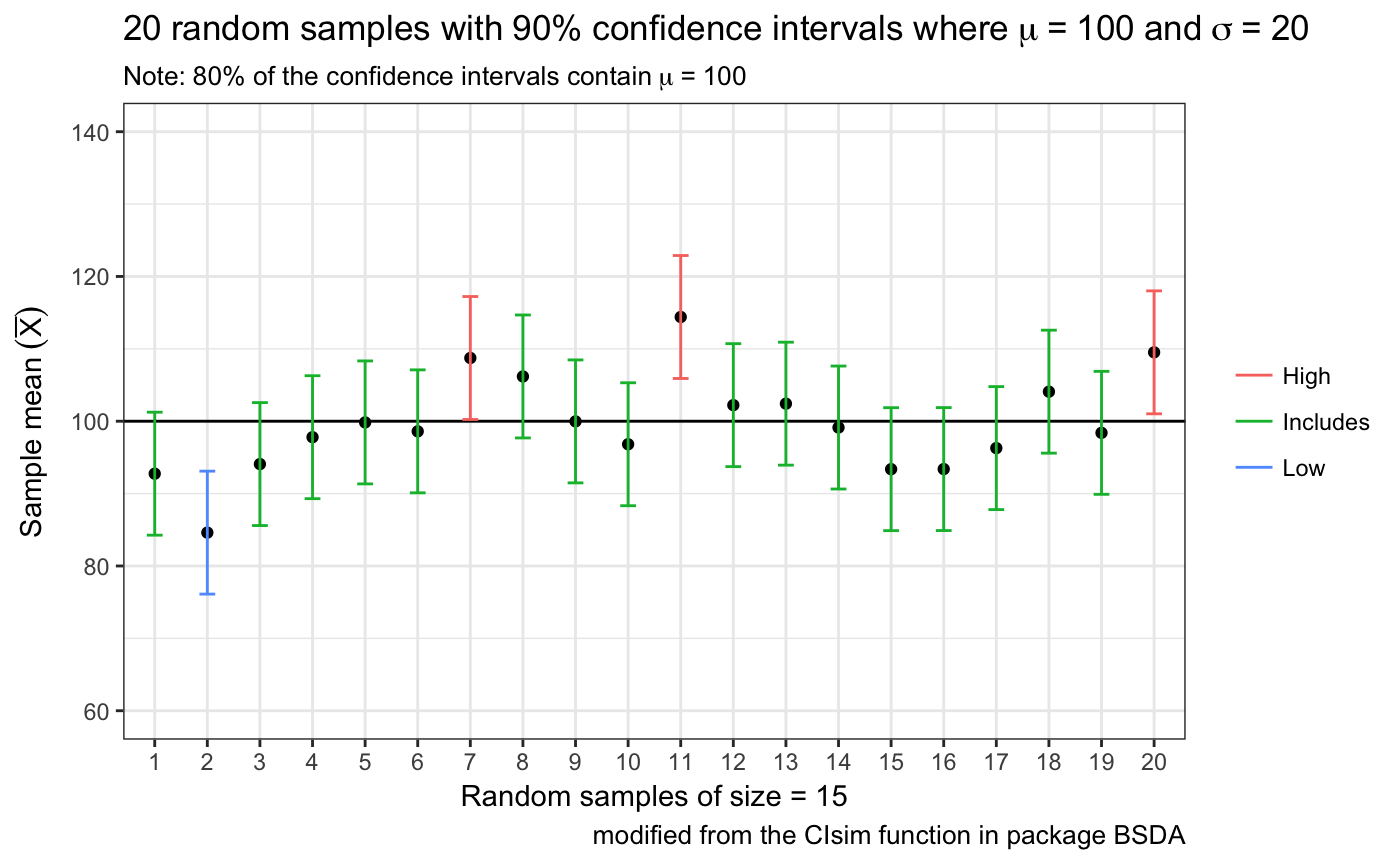
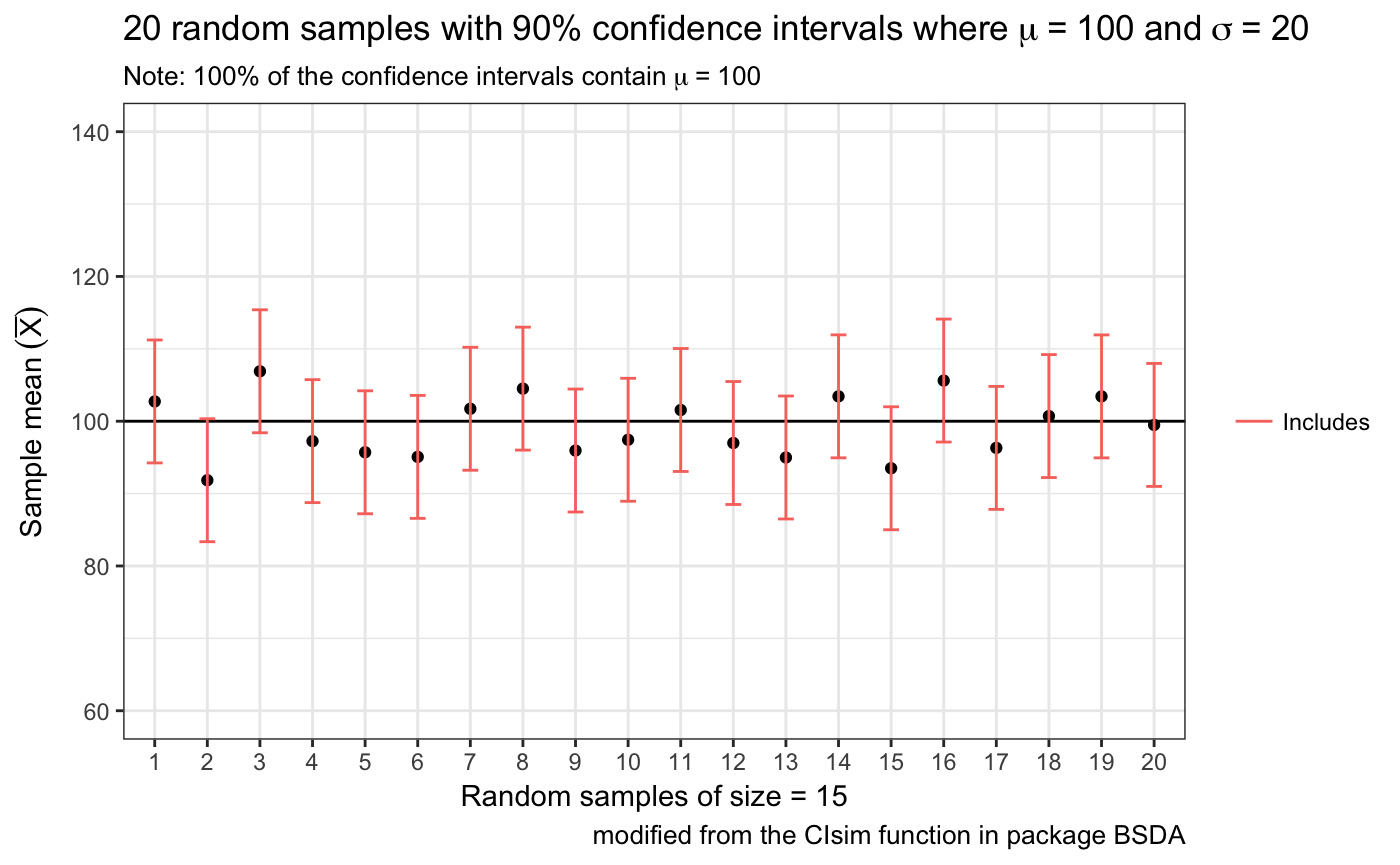
FIxed I think

diff --git a/docs/reference/OurConf.html b/docs/reference/OurConf.html
@@ -171,7 +171,7 @@ their confidence intervals</p>
     
 
     <h2 class="hasAnchor" id="examples"><a class="anchor" href="#examples"></a>Examples</h2>
-    <pre class="examples"><div class='input'><span class='fu'>OurConf</span>(<span class='kw'>samples</span> <span class='kw'>=</span> <span class='fl'>100</span>, <span class='kw'>n</span> <span class='kw'>=</span> <span class='fl'>30</span>, <span class='kw'>mu</span> <span class='kw'>=</span> <span class='fl'>0</span>, <span class='kw'>sigma</span> <span class='kw'>=</span> <span class='fl'>1</span>, <span class='kw'>conf.level</span> <span class='kw'>=</span> <span class='fl'>0.95</span>)</div><div class='img'><img src='OurConf-1.png' alt='' width='700' height='433' /></div><div class='output co'>#&gt; 98 % of the confidence intervals contain Mu = 0 . </div><div class='input'><span class='fu'>OurConf</span>(<span class='kw'>samples</span> <span class='kw'>=</span> <span class='fl'>2</span>, <span class='kw'>n</span> <span class='kw'>=</span><span class='fl'>5</span>)</div><div class='output co'>#&gt; <span class='error'>Error in grid.Call.graphics(C_setviewport, vp, TRUE): non-finite location and/or size for viewport</span></div><div class='img'><img src='OurConf-2.png' alt='' width='700' height='433' /></div><div class='input'><span class='fu'>OurConf</span>(<span class='kw'>samples</span> <span class='kw'>=</span> <span class='fl'>25</span>, <span class='kw'>n</span> <span class='kw'>=</span> <span class='fl'>25</span>, <span class='kw'>mu</span> <span class='kw'>=</span> <span class='fl'>100</span>, <span class='kw'>sigma</span> <span class='kw'>=</span> <span class='fl'>20</span>, <span class='kw'>conf.level</span> <span class='kw'>=</span> <span class='fl'>0.99</span>)</div><div class='output co'>#&gt; 100 % of the confidence intervals contain Mu = 100 . </div><div class='input'>
+    <pre class="examples"><div class='input'><span class='fu'>OurConf</span>(<span class='kw'>samples</span> <span class='kw'>=</span> <span class='fl'>100</span>, <span class='kw'>n</span> <span class='kw'>=</span> <span class='fl'>30</span>, <span class='kw'>mu</span> <span class='kw'>=</span> <span class='fl'>0</span>, <span class='kw'>sigma</span> <span class='kw'>=</span> <span class='fl'>1</span>, <span class='kw'>conf.level</span> <span class='kw'>=</span> <span class='fl'>0.95</span>)</div><div class='img'><img src='OurConf-1.png' alt='' width='700' height='433' /></div><div class='output co'>#&gt; 98 % of the confidence intervals contain Mu = 0 . </div><div class='input'><span class='fu'>OurConf</span>(<span class='kw'>samples</span> <span class='kw'>=</span> <span class='fl'>2</span>, <span class='kw'>n</span> <span class='kw'>=</span><span class='fl'>5</span>)</div><div class='img'><img src='OurConf-2.png' alt='' width='700' height='433' /></div><div class='output co'>#&gt; 100 % of the confidence intervals contain Mu = 0 . </div><div class='input'><span class='fu'>OurConf</span>(<span class='kw'>samples</span> <span class='kw'>=</span> <span class='fl'>25</span>, <span class='kw'>n</span> <span class='kw'>=</span> <span class='fl'>25</span>, <span class='kw'>mu</span> <span class='kw'>=</span> <span class='fl'>100</span>, <span class='kw'>sigma</span> <span class='kw'>=</span> <span class='fl'>20</span>, <span class='kw'>conf.level</span> <span class='kw'>=</span> <span class='fl'>0.99</span>)</div><div class='img'><img src='OurConf-3.png' alt='' width='700' height='433' /></div><div class='output co'>#&gt; 100 % of the confidence intervals contain Mu = 100 . </div><div class='input'>
 </div></pre>
   </div>
   <div class="col-md-3 hidden-xs hidden-sm" id="sidebar">

diff --git a/docs/reference/SeeDist.html b/docs/reference/SeeDist.html
@@ -181,8 +181,7 @@ The rest are ignored and the user is warned on the console.</p>
 
     <h2 class="hasAnchor" id="examples"><a class="anchor" href="#examples"></a>Examples</h2>
     <pre class="examples"><div class='input'><span class='fu'>SeeDist</span>(<span class='fu'>rnorm</span>(<span class='fl'>100</span>, <span class='kw'>mean</span><span class='kw'>=</span><span class='fl'>100</span>, <span class='kw'>sd</span><span class='kw'>=</span><span class='fl'>20</span>), <span class='kw'>numbins</span> <span class='kw'>=</span> <span class='fl'>15</span>, <span class='kw'>whatvar</span> <span class='kw'>=</span> <span class='st'>"A Random Sample"</span>)</div><div class='output co'>#&gt; <span class='warning'>Warning: There are 100 modal values displaying just the first 3</span></div><div class='img'><img src='SeeDist-1.png' alt='' width='700' height='433' /></div><div class='img'><img src='SeeDist-2.png' alt='' width='700' height='433' /></div><div class='img'><img src='SeeDist-3.png' alt='' width='700' height='433' /></div><div class='output co'>#&gt;    Min. 1st Qu.  Median    Mean 3rd Qu.    Max. 
-#&gt;   39.91   92.06  106.54  104.72  119.29  155.69 </div><div class='input'><span class='fu'>SeeDist</span>(<span class='no'>mtcars</span>$<span class='no'>hp</span>, <span class='kw'>whatvar</span> <span class='kw'>=</span> <span class='st'>"Horsepower"</span>)</div><div class='img'><img src='SeeDist-4.png' alt='' width='700' height='433' /></div><div class='img'><img src='SeeDist-5.png' alt='' width='700' height='433' /></div><div class='output co'>#&gt; <span class='error'>Error in grid.Call(C_textBounds, as.graphicsAnnot(x$label), x$x, x$y,     resolveHJust(x$just, x$hjust), resolveVJust(x$just, x$vjust),     x$rot, 0): polygon edge not found</span></div><div class='img'><img src='SeeDist-6.png' alt='' width='700' height='433' /></div><div class='input'><span class='fu'>SeeDist</span>(<span class='no'>iris</span>$<span class='no'>Sepal.Length</span>, <span class='kw'>whatvar</span> <span class='kw'>=</span> <span class='st'>"Sepal Length"</span>)</div><div class='output co'>#&gt;    Min. 1st Qu.  Median    Mean 3rd Qu.    Max. 
-#&gt;   4.300   5.100   5.800   5.843   6.400   7.900 </div><div class='input'>
+#&gt;   39.91   92.06  106.54  104.72  119.29  155.69 </div><div class='input'><span class='fu'>SeeDist</span>(<span class='no'>mtcars</span>$<span class='no'>hp</span>, <span class='kw'>whatvar</span> <span class='kw'>=</span> <span class='st'>"Horsepower"</span>)</div><div class='img'><img src='SeeDist-4.png' alt='' width='700' height='433' /></div><div class='img'><img src='SeeDist-5.png' alt='' width='700' height='433' /></div><div class='output co'>#&gt; <span class='error'>Error in grid.Call(C_textBounds, as.graphicsAnnot(x$label), x$x, x$y,     resolveHJust(x$just, x$hjust), resolveVJust(x$just, x$vjust),     x$rot, 0): polygon edge not found</span></div><div class='img'><img src='SeeDist-6.png' alt='' width='700' height='433' /></div><div class='input'><span class='fu'>SeeDist</span>(<span class='no'>iris</span>$<span class='no'>Sepal.Length</span>, <span class='kw'>whatvar</span> <span class='kw'>=</span> <span class='st'>"Sepal Length"</span>)</div><div class='output co'>#&gt; <span class='error'>Error in grid.Call(C_textBounds, as.graphicsAnnot(x$label), x$x, x$y,     resolveHJust(x$just, x$hjust), resolveVJust(x$just, x$vjust),     x$rot, 0): polygon edge not found</span></div><div class='input'>
 </div></pre>
   </div>
   <div class="col-md-3 hidden-xs hidden-sm" id="sidebar">

diff --git a/docs/index.html b/docs/index.html
@@ -131,9 +131,7 @@
 <p><code>library(CGPfunctions)</code> will load the package which contains 4 functions:</p>
 <p><code>SeeDist</code> will give you some plots of the distribution of a variable using <code>ggplot2</code></p>
 <div class="sourceCode" id="cb2"><pre class="sourceCode r"><code class="sourceCode r"><a class="sourceLine" id="cb2-1" data-line-number="1"><span class="kw">library</span>(CGPfunctions)</a>
-<a class="sourceLine" id="cb2-2" data-line-number="2"><span class="co">#&gt; Warning: replacing previous import 'dplyr::vars' by 'ggplot2::vars' when</span></a>
-<a class="sourceLine" id="cb2-3" data-line-number="3"><span class="co">#&gt; loading 'CGPfunctions'</span></a>
-<a class="sourceLine" id="cb2-4" data-line-number="4"><span class="kw"><a href="reference/SeeDist.html">SeeDist</a></span>(mtcars<span class="op">$</span>hp,<span class="dt">whatvar=</span><span class="st">"Horsepower"</span>,<span class="dt">whatplots=</span><span class="st">"d"</span>)</a></code></pre></div>
+<a class="sourceLine" id="cb2-2" data-line-number="2"><span class="kw"><a href="reference/SeeDist.html">SeeDist</a></span>(mtcars<span class="op">$</span>hp,<span class="dt">whatvar=</span><span class="st">"Horsepower"</span>,<span class="dt">whatplots=</span><span class="st">"d"</span>)</a></code></pre></div>
 <p><img src="README-SeeDist-1.png" width="700"></p>
 <pre><code>#&gt;    Min. 1st Qu.  Median    Mean 3rd Qu.    Max. 
 #&gt;    52.0    96.5   123.0   146.7   180.0   335.0</code></pre>
@@ -199,7 +197,7 @@
 <p><code>OurConf</code> is a simulation function that helps you learn about confidence intervals</p>
 <div class="sourceCode" id="cb7"><pre class="sourceCode r"><code class="sourceCode r"><a class="sourceLine" id="cb7-1" data-line-number="1"><span class="kw"><a href="reference/OurConf.html">OurConf</a></span>(<span class="dt">samples =</span> <span class="dv">20</span>, <span class="dt">n =</span> <span class="dv">15</span>, <span class="dt">mu =</span> <span class="dv">100</span>, <span class="dt">sigma =</span> <span class="dv">20</span>, <span class="dt">conf.level =</span> <span class="fl">0.90</span>)</a></code></pre></div>
 <p><img src="README-OurConf-1.png" width="700"></p>
-<pre><code>#&gt; 80 % of the confidence intervals contain Mu = 100 .</code></pre>
+<pre><code>#&gt; 100 % of the confidence intervals contain Mu = 100 .</code></pre>
 </div>
 <div id="credits" class="section level2">
 <h2 class="hasAnchor">

diff --git a/docs/articles/CGPfunctions.html b/docs/articles/CGPfunctions.html
@@ -149,9 +149,7 @@
 <a class="sourceLine" id="cb1-5" data-line-number="5"><span class="co"># install.packages("devtools")</span></a>
 <a class="sourceLine" id="cb1-6" data-line-number="6">devtools<span class="op">::</span><span class="kw"><a href="http://www.rdocumentation.org/packages/devtools/topics/install_github">install_github</a></span>(<span class="st">"ibecav/CGPfunctions"</span>)</a></code></pre></div>
 <p>then load the library.</p>
-<div class="sourceCode" id="cb2"><pre class="sourceCode r"><code class="sourceCode r"><a class="sourceLine" id="cb2-1" data-line-number="1"><span class="kw">library</span>(CGPfunctions)</a>
-<a class="sourceLine" id="cb2-2" data-line-number="2"><span class="co">#&gt; Warning: replacing previous import 'dplyr::vars' by 'ggplot2::vars' when</span></a>
-<a class="sourceLine" id="cb2-3" data-line-number="3"><span class="co">#&gt; loading 'CGPfunctions'</span></a></code></pre></div>
+<div class="sourceCode" id="cb2"><pre class="sourceCode r"><code class="sourceCode r"><a class="sourceLine" id="cb2-1" data-line-number="1"><span class="kw">library</span>(CGPfunctions)</a></code></pre></div>
 </div>
 <div id="example-of-using-the-function" class="section level2">
 <h2 class="hasAnchor">

diff --git a/docs/reference/CGPfunctions.html b/docs/reference/CGPfunctions.html
@@ -138,6 +138,7 @@
     
     <ul>
 <li><p><code><a href='Plot2WayANOVA.html'>Plot2WayANOVA</a></code> which as the name implies conducts a 2 way ANOVA and plots the results using `ggplot2`</p></li>
+<li><p><code><a href='PlotXTabs.html'>PlotXTabs</a></code> which as the name implies plots cross tabulated variables using `ggplot2`</p></li>
 <li><p><code><a href='neweta.html'>neweta</a></code> which is a helper function that appends the results of a Type II eta squared calculation onto a classic ANOVA table</p></li>
 <li><p><code><a href='Mode.html'>Mode</a></code> which finds the modal value in a vector of data</p></li>
 <li><p><code><a href='SeeDist.html'>SeeDist</a></code> which wraps around ggplot2 to provide visualizations of univariate data.</p></li>
